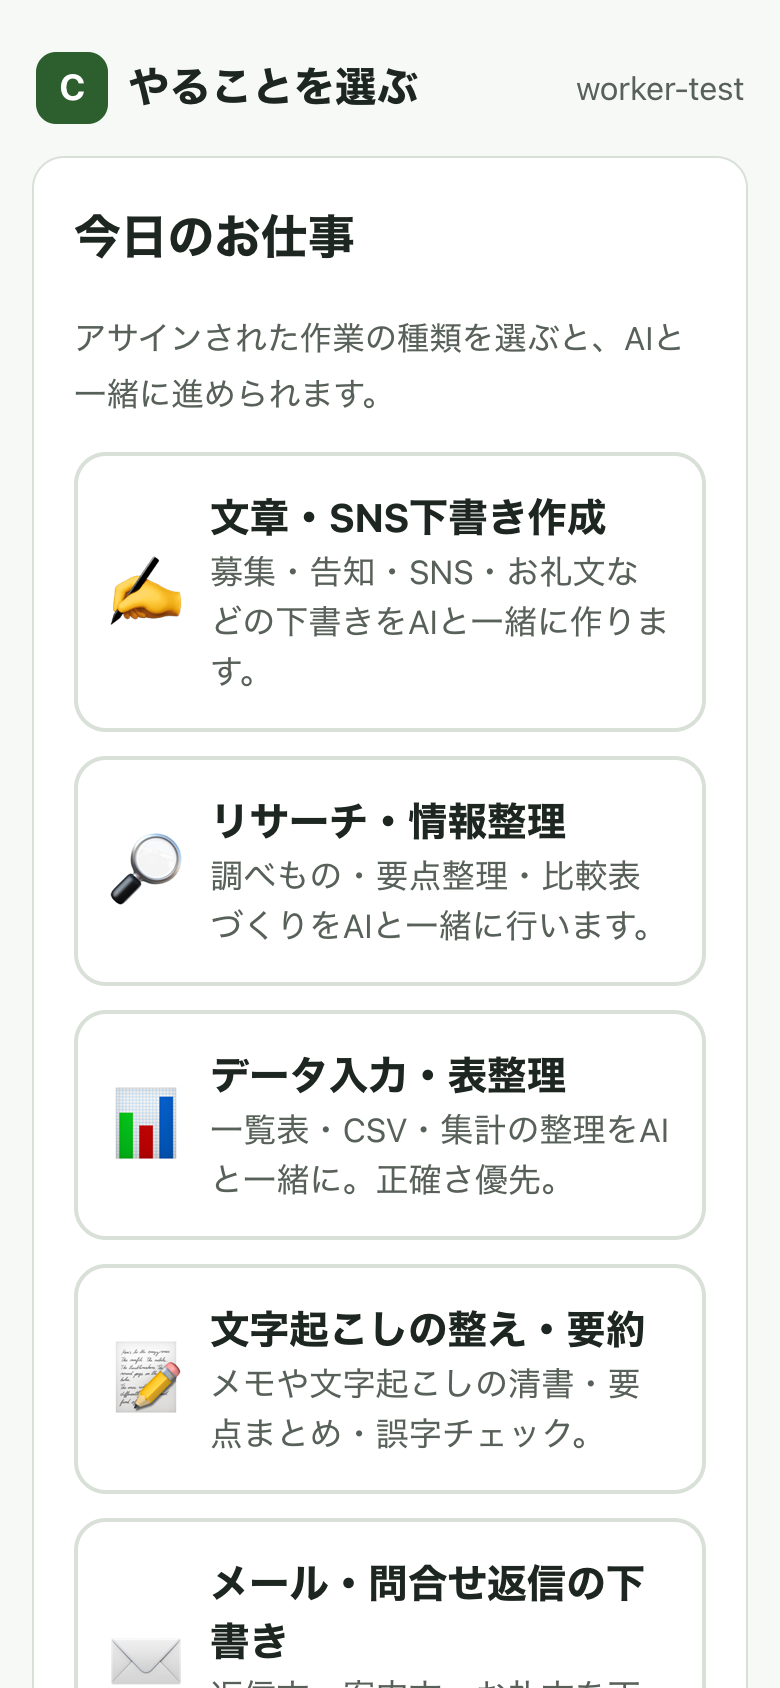
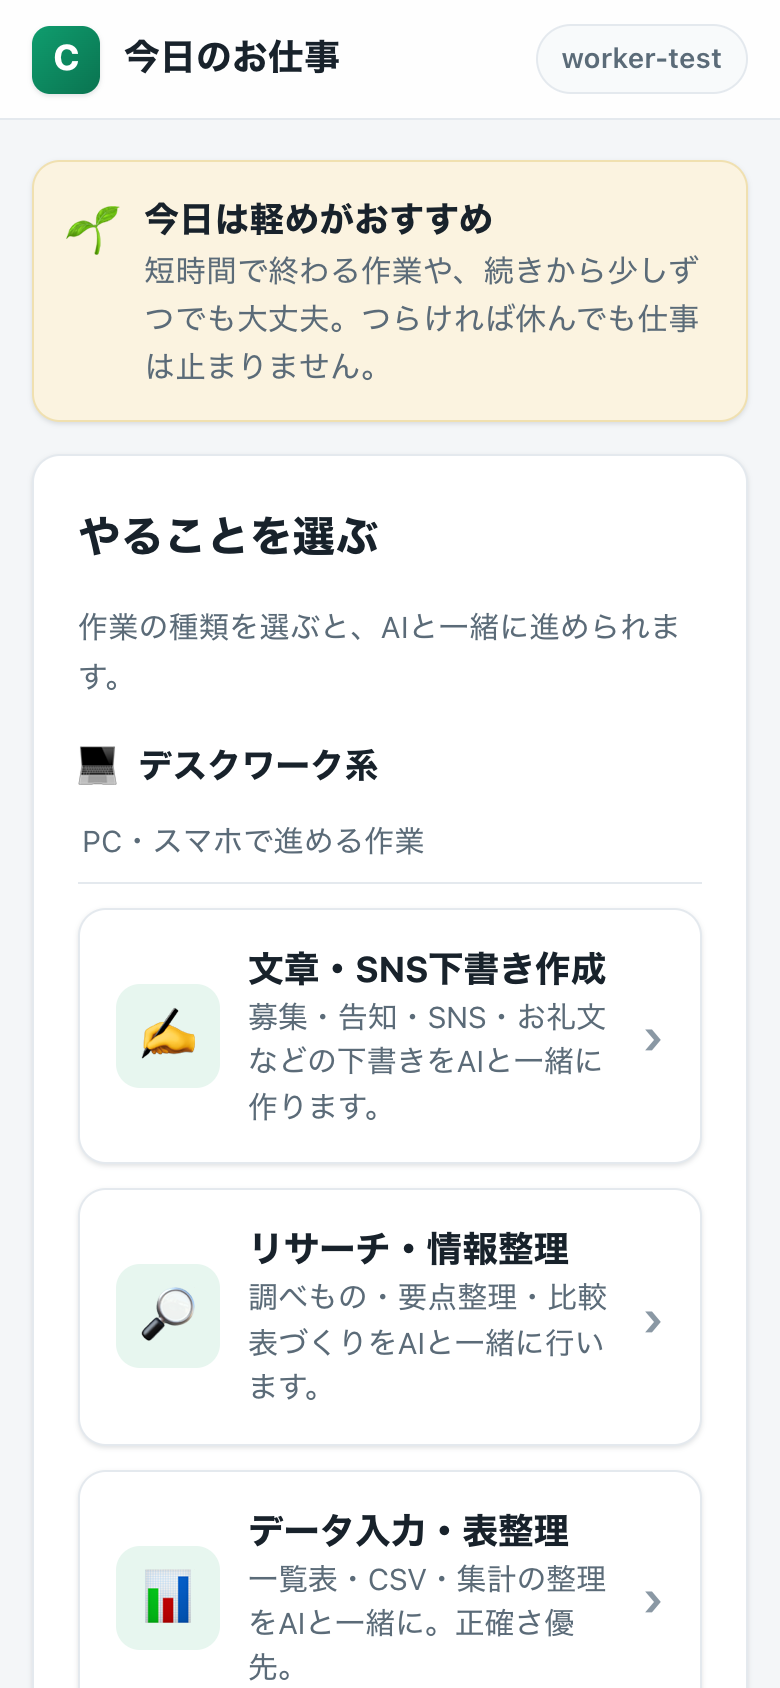
ポータル: 管理画面を追加＋ワーカー/管理者ワークスペースを最新化
- 管理画面 運用ガイド(admin-guide.html)を新規作成（概要/稼働/ヘルス/タスク/アサイン提案/名簿の6画面キャプチャ）
- index.html に「管理・運用(経営者・PM向け)」セクション追加
- worker-app-guide.html を最新UXに更新（2グループ表示・アサイン業務・体調おすすめ）＋スクショ刷新
- worker-app-architecture.html に管理画面(見える化)セクション追加
- 本番キャプチャ刷新（worker 5枚＋admin 6枚）

Changed region(s): [[0.0308, 0.0, 0.9846, 1.0], [0.7077, 0.0308, 0.9538, 0.0616], [0.8308, 0.5853, 0.8615, 0.6161]]

diff --git a/admin-guide.html b/admin-guide.html
@@ -1,0 +1,168 @@
+<!doctype html>
+<html lang="ja"><head>
+<meta charset="utf-8"><meta name="viewport" content="width=device-width,initial-scale=1">
+<meta name="robots" content="noindex,nofollow,noarchive">
+<title>CanPass 管理画面 ・ 運用ガイド</title>
+<style>
+:root{--brand:#1E5BC6;--accent:#D9744A;--ink:#1A2230;--gray:#71808F;--line:#E3E8EF;--bg:#F5F7FB;--card:#fff;--navy:#11243B;--green:#1AA06A;--canpassgreen:#0f9d6e;}
+*{margin:0;box-sizing:border-box;}
+html,body{background:var(--bg);color:var(--ink);font-family:-apple-system,"Hiragino Kaku Gothic ProN","Noto Sans JP",sans-serif;-webkit-font-smoothing:antialiased;line-height:1.7;}
+.wrap{max-width:880px;margin:0 auto;padding:42px 20px 80px;}
+.head{display:flex;align-items:center;gap:16px;border-bottom:3px solid var(--brand);padding-bottom:18px;}
+.bn{font-size:34px;font-weight:900;letter-spacing:-.02em;}
+.bn .i{color:var(--brand);}
+.htext .t{font-size:15px;font-weight:800;color:var(--navy);}
+.htext .s{font-size:12.5px;color:var(--gray);margin-top:2px;}
+.lead{font-size:14px;color:var(--gray);margin:18px 0 8px;}
+.back{display:inline-block;font-size:12.5px;color:var(--brand);text-decoration:none;margin-top:10px;font-weight:700;}
+
+.start{background:var(--card);border:1px solid var(--line);border-radius:16px;padding:22px;margin:24px 0;box-shadow:0 2px 10px rgba(20,50,90,.05);}
+.start h2{font-size:17px;color:var(--navy);margin-bottom:12px;display:flex;align-items:center;gap:9px;}
+.start h2 .dot{width:11px;height:11px;border-radius:3px;background:var(--brand);}
+.url{display:inline-block;font-size:14px;font-weight:700;color:var(--brand);word-break:break-all;text-decoration:none;background:#EEF3FC;border-radius:8px;padding:7px 11px;}
+.cred{margin-top:12px;font-size:13.5px;}
+.cred b{display:inline-block;min-width:120px;color:var(--gray);font-weight:600;}
+.cred code{background:#F0F2F6;border-radius:6px;padding:2px 8px;font-size:13.5px;font-weight:700;color:var(--ink);}
+.pw{display:inline-block;font-size:11px;font-weight:800;color:#9c4a26;background:#FCEDE5;border-radius:999px;padding:3px 10px;margin-left:6px;vertical-align:middle;}
+
+.feat{display:flex;gap:18px;align-items:flex-start;background:var(--card);border:1px solid var(--line);border-radius:16px;padding:20px;margin:18px 0;box-shadow:0 2px 8px rgba(20,50,90,.04);}
+.feat .bd{flex:1;min-width:0;}
+.tabname{display:inline-block;font-size:11.5px;font-weight:800;color:#fff;background:var(--canpassgreen);border-radius:7px;padding:3px 10px;margin-bottom:8px;}
+.feat h3{font-size:17px;color:var(--navy);margin:2px 0 8px;}
+.feat p{font-size:13.8px;color:#41505e;margin:6px 0;}
+.feat ul{margin:6px 0 0;padding-left:20px;}
+.feat li{font-size:13.5px;color:#41505e;margin:4px 0;}
+.shot{width:100%;border-radius:12px;border:1px solid #d8deea;box-shadow:0 6px 18px rgba(20,50,90,.10);display:block;margin:6px 0 2px;}
+.cap{font-size:11.5px;color:var(--gray);margin-top:4px;}
+
+.sec{margin-top:30px;}
+.sec h2{font-size:16px;color:var(--navy);display:flex;align-items:center;gap:9px;margin-bottom:12px;}
+.sec h2 .dot{width:10px;height:10px;border-radius:3px;background:var(--brand);}
+.note{background:#FFF8EE;border:1px solid #F3E2C2;border-radius:14px;padding:16px 20px;font-size:13.5px;color:#6b5526;}
+.note b{color:#8a6d00;}
+.gov{background:#EAF4FF;border:1px solid #CFE2F7;border-radius:14px;padding:16px 20px;font-size:13.5px;color:#1c4a7a;}
+.gov b{color:#0d3a66;}
+
+.cta{display:flex;gap:12px;flex-wrap:wrap;margin-top:28px;}
+.btn{flex:1;min-width:200px;text-align:center;text-decoration:none;border-radius:14px;padding:16px;font-size:15px;font-weight:800;}
+.btn.primary{background:var(--canpassgreen);color:#fff;}
+.btn.sub{background:#fff;color:var(--brand);border:2px solid var(--brand);}
+
+.foot{margin-top:42px;padding-top:16px;border-top:1px solid var(--line);font-size:11.5px;color:var(--gray);line-height:1.7;}
+@media(max-width:560px){.bn{font-size:28px;}.cred b{min-width:0;display:block;margin-bottom:2px;}}
+</style></head><body>
+<div class="wrap">
+
+  <div class="head">
+    <div class="bn"><span class="i">i</span> CanPass</div>
+    <div class="htext">
+      <div class="t">管理画面 ・ 運用ガイド</div>
+      <div class="s">経営者・PM向け ・ ワーカーの稼働／体調／タスクを一目で ・ 社外秘（L2機密）</div>
+    </div>
+  </div>
+
+  <div class="lead">
+    CanPass の<b>管理画面</b>（経営者・PM向け）の使い方ガイドです。<br>
+    符号で働くワーカーの「今日の稼働・体調・タスクの状況」を1画面で把握し、無理のないアサインを判断できます。
+    操作は<b>提案・閲覧が中心</b>で、最終的な確定は人が行います。
+  </div>
+  <a class="back" href="index.html">← 関係者限定ポータルへ戻る</a>
+
+  <!-- アクセス -->
+  <div class="start">
+    <h2><span class="dot"></span>入り方</h2>
+    <a class="url" href="https://worker-app-sooty.vercel.app/admin" target="_blank" rel="noopener">worker-app-sooty.vercel.app/admin</a>
+    <div class="cred">
+      <div style="margin-top:8px;"><b>管理者パスコード</b> <code>（別途共有）</code> <span class="pw">PW・管理者限定</span></div>
+    </div>
+    <p style="font-size:12px;color:var(--gray);margin-top:12px;">※ ワーカー用ログインとは別系統です。パスコードは経営者・PMにのみ共有します。PCでの利用を想定（スマホでも閲覧可）。</p>
+  </div>
+
+  <!-- 概要 -->
+  <div class="feat">
+    <div class="bd">
+      <span class="tabname">概要</span>
+      <h3>今日の状況をひと目で</h3>
+      <p>本日の稼働ワーカー数・作業完了・進行中タスク・<b>見守り対象</b>の人数をカードで表示。締切超過や未割当などの<b>アラート</b>、体調が低い人の<b>見守りリスト</b>もここに出ます。</p>
+      <img class="shot" src="assets/admin/admin-01-overview.png" alt="概要タブ">
+      <div class="cap">概要：KPIカード＋アラート＋本日の見守り対象</div>
+    </div>
+  </div>
+
+  <!-- ワーカー稼働 -->
+  <div class="feat">
+    <div class="bd">
+      <span class="tabname">ワーカー稼働</span>
+      <h3>誰がどれくらい働いたか（期間別）</h3>
+      <p>7／14／30日の期間で、ワーカー別の稼働日・ログイン・完了数・稼働時間・最新の体調/疲労をまとめます。符号の横に氏名（管理者のみ）も表示。</p>
+      <img class="shot" src="assets/admin/admin-02-workers.png" alt="ワーカー稼働タブ">
+      <div class="cap">ワーカー稼働：期間別サマリ（要配慮の人は色付き）</div>
+    </div>
+  </div>
+
+  <!-- ヘルス見守り -->
+  <div class="feat">
+    <div class="bd">
+      <span class="tabname">ヘルス見守り</span>
+      <h3>体調の傾向を見て、無理をさせない</h3>
+      <p>体調（高いほど良い）・疲労／痛み（高いほど注意）の最新値と平均、見守り日数を表示。<b>軽作業や休息の声かけ</b>のための材料で、詮索のためのものではありません。</p>
+      <img class="shot" src="assets/admin/admin-03-health.png" alt="ヘルス見守りタブ">
+      <div class="cap">ヘルス見守り：要配慮の人を上に。判断材料として最小限に使う</div>
+    </div>
+  </div>
+
+  <!-- タスク -->
+  <div class="feat">
+    <div class="bd">
+      <span class="tabname">タスク</span>
+      <h3>受託タスクの状態・担当をその場で更新</h3>
+      <p>受託タスクの一覧。状態（未着手〜完了）・主担当／副担当をその場で変更でき、締切超過は赤で警告。新規タスクの起票もできます。<b>1業務＝主＋副の冗長</b>を保つ運用です。</p>
+      <img class="shot" src="assets/admin/admin-04-tasks.png" alt="タスクタブ">
+      <div class="cap">タスク：インライン編集（状態・担当）＋新規起票</div>
+    </div>
+  </div>
+
+  <!-- アサイン提案 -->
+  <div class="feat">
+    <div class="bd">
+      <span class="tabname">アサイン提案</span>
+      <h3>「誰が何を」をAIが提案（確定は人）</h3>
+      <p>受託タスク × 当日の稼働 × 体調 を掛け合わせ、当日の担当案を提示します。体調が低い人には軽め、余力のある人へ移管、副担当の欠けも検知。<b>これは提案で、確定は人が判断</b>します。</p>
+      <img class="shot" src="assets/admin/admin-05-assign.png" alt="アサイン提案タブ">
+      <div class="cap">アサイン提案：提案・余力の可視化（反映ボタンで担当に設定）</div>
+    </div>
+  </div>
+
+  <!-- 名簿 -->
+  <div class="feat">
+    <div class="bd">
+      <span class="tabname">名簿</span>
+      <h3>符号↔実名（管理者だけが見られる）</h3>
+      <p>符号と実名の対応表。<b>管理者だけ</b>がこの画面で参照できます。ワーカー側アプリ・各種ログ・公開物には実名は一切出ません（符号で運用）。下の画像はサンプル（氏名はダミー）です。</p>
+      <img class="shot" src="assets/admin/admin-06-roster.png" alt="名簿タブ">
+      <div class="cap">名簿：符号↔実名（L3・管理者限定。実運用では実名を安全な別管理に）</div>
+    </div>
+  </div>
+
+  <!-- ガバナンス -->
+  <div class="sec">
+    <h2><span class="dot"></span>運用の原則</h2>
+    <div class="gov">
+      <b>● 提案のみ・確定は人。</b> 画面の提案（アサイン等）は判断材料です。担当の確定は人が行います。<br>
+      <b>● 符号運用（L3）。</b> 稼働・体調・タスクは符号で扱い、実名は管理者の「名簿」だけに留めます。<br>
+      <b>● 体調を最優先に。</b> 見守りは「軽作業・休息」のため。体調を理由に量のノルマを課しません。<br>
+      <b>● 管理者限定。</b> この画面は管理者パスコードの内側のみ。閲覧できる人を最小限にしてください。
+    </div>
+  </div>
+
+  <div class="cta">
+    <a class="btn primary" href="https://worker-app-sooty.vercel.app/admin" target="_blank" rel="noopener">▶ 管理画面を開く</a>
+    <a class="btn sub" href="index.html">関係者限定ポータルへ戻る</a>
+  </div>
+
+  <div class="foot">
+    社外秘 / L2機密 ・ 2026 ／ i CanPass ・ 管理画面（経営者・PM向け）<br>
+    ※ 画面のデータはサンプルです。実名・原本は扱いません（符号運用）。実名対応は管理者のみ・別管理。
+  </div>
+</div>
+</body></html>

diff --git a/worker-app-guide.html b/worker-app-guide.html
@@ -117,16 +117,36 @@ html,body{background:var(--bg);color:var(--ink);font-family:-apple-system,"Hirag
   </div>
 
   <div class="step">
-    <div class="ph"><img src="assets/worker-app/03-work.png" alt="作業の種類を選ぶ画面"></div>
+    <div class="ph"><img src="assets/worker-app/03-work.png" alt="作業の種類を選ぶ画面（体調おすすめ＋グループ表示）"></div>
     <div class="bd">
       <h3><span class="num">3</span>やることを選ぶ</h3>
-      <p>割り当てられた作業の種類をタップします。デモでは7種類から選べます。</p>
+      <p>画面の上に、<b>今日の体調に合わせたおすすめ</b>（「今日は軽めがおすすめ」など）が出ます。数字のノルマは出さず、選ぶのはあなたです。</p>
+      <p>作業の種類は <b>2つのまとまり</b>に分かれています。やりたいものをタップしてください（全10種）。</p>
+      <div style="margin:4px 0 6px;font-size:12px;color:var(--canpassgreen);font-weight:800;">💻 デスクワーク系</div>
       <div>
         <span class="tag">✍ 文章・SNS下書き</span><span class="tag">🔎 リサーチ・整理</span>
         <span class="tag">📊 データ入力・表整理</span><span class="tag">📝 文字起こしの整え</span>
         <span class="tag">✉ 返信の下書き</span><span class="tag">🌐 やさしい日本語・翻訳</span>
         <span class="tag">🎤 音声・動画→議事録</span>
       </div>
+      <div style="margin:10px 0 6px;font-size:12px;color:var(--canpassgreen);font-weight:800;">🤝 リアル作業系</div>
+      <div>
+        <span class="tag">📮 発送・封入代行</span><span class="tag">✒ 宛名書き・代書</span>
+        <span class="tag">🎪 リアルイベント運営</span>
+      </div>
+    </div>
+  </div>
+
+  <div class="step">
+    <div class="ph"><img src="assets/worker-app/03b-work-assigned.png" alt="アサインされた業務の表示"></div>
+    <div class="bd">
+      <h3><span class="num">＋</span>「あなたにアサインされた業務」</h3>
+      <p>担当の仕事が割り当てられている日は、画面の上に<b>あなたの業務</b>が出ます。やるものを選んでから進められます。</p>
+      <ul>
+        <li>表示されるのは <b>PM（運用担当）が割り当てた仕事だけ</b>です。</li>
+        <li>選ぶのは「今日やる」という<b>希望</b>。やる・やらないは相談してOKです。</li>
+        <li>クライアント名などは符号で表示され、こなすべき件数（ノルマ）は出しません。</li>
+      </ul>
     </div>
   </div>
 

diff --git a/index.html b/index.html
@@ -82,10 +82,20 @@ a.card.grn{border-left-color:var(--green);}
     <h2><span class="dot" style="background:var(--green)"></span>デモ・体験 <span class="pw open">体験可</span></h2>
     <div class="sub">ワーカー向けアプリ（v0デモ）・スマホで体験できます</div>
     <div class="grid">
-      <a class="card grn full" href="worker-app-guide.html"><div class="ti">ワーカーアプリ 体験ガイド（画像入り）</div><div class="de">スマホでの始め方をQR・スクショ付きで解説。符号 worker-test / パスコード canpass で体験（人×AIで働く→Notion自動記録）</div></a>
+      <a class="card grn full" href="worker-app-guide.html"><div class="ti">ワーカーアプリ 体験ガイド（画像入り）</div><div class="de">スマホでの始め方をQR・スクショ付きで解説。最新版＝作業種別の2グループ表示・アサイン業務・体調連動おすすめ。符号 worker-test / パスコード canpass で体験</div></a>
       <a class="card grn" href="worker-app-faq.html"><div class="ti">よくある質問（FAQ）</div><div class="de">「Claude無しでも使える？」など、はじめる前の不安に回答</div></a>
       <a class="card grn" href="worker-app-architecture.html"><div class="ti">しくみ仕様書（非エンジニア向け）</div><div class="de">図解で解説。AIワークスペースの構成・記録・プライバシー・コスト</div></a>
       <a class="card grn full" href="https://worker-app-sooty.vercel.app" target="_blank" rel="noopener"><div class="ti">▶ アプリを直接開く</div><div class="de">worker-app-sooty.vercel.app</div></a>
+    </div>
+  </div>
+
+  <!-- 管理・運用 -->
+  <div class="sec">
+    <h2><span class="dot"></span>管理・運用（経営者・PM向け） <span class="pw">PW・管理者</span></h2>
+    <div class="sub">ワーカーの稼働・体調・タスクを1画面で把握する管理画面（v0）。提案のみ・確定は人・符号運用（L3）。</div>
+    <div class="grid">
+      <a class="card full" href="admin-guide.html"><div class="ti">管理画面 運用ガイド（画像入り）</div><div class="de">概要／ワーカー稼働／ヘルス見守り／タスク／アサイン提案／名簿の使い方。実名は管理者だけが見られる「名簿」に限定</div></a>
+      <a class="card full" href="https://worker-app-sooty.vercel.app/admin" target="_blank" rel="noopener"><div class="ti">▶ 管理画面を直接開く</div><div class="de">worker-app-sooty.vercel.app/admin ・ 管理者パスコードが必要（別途共有）</div></a>
     </div>
   </div>
 

diff --git a/worker-app-architecture.html b/worker-app-architecture.html
@@ -154,6 +154,16 @@ th{background:#F2F6FC;color:var(--navy);font-weight:700;}
     </div>
   </div>
 
+  <!-- 管理画面 -->
+  <div class="sec">
+    <h2><span class="n">＋</span>記録は「管理画面」で見える化されます</h2>
+    <div class="sub">経営者・PM が、無理のないアサインを判断するための画面です（提案のみ・確定は人）。</div>
+    <div class="card">
+      <p style="font-size:13.5px;color:#41505e;">上の記録（稼働・体調・タスク）は、<b>管理画面（/admin ・ 管理者パスコードの内側）</b>に集まります。本日の稼働・見守り対象・タスク状況を1画面で把握でき、<b>受託タスク × 稼働 × 体調</b>から「誰が何を」のアサイン案も出ます（確定は人）。実名は管理者だけが見られる「名簿」に限定し、ワーカー側アプリや各ログには出しません（符号運用）。</p>
+      <p style="font-size:12.5px;color:#71808F;margin-top:10px;">→ 詳しい使い方は <a href="admin-guide.html" style="color:#1E5BC6;font-weight:700;">管理画面 運用ガイド</a> へ。</p>
+    </div>
+  </div>
+
   <!-- 5. プライバシー -->
   <div class="sec">
     <h2><span class="n">5</span>プライバシーの守り方</h2>
